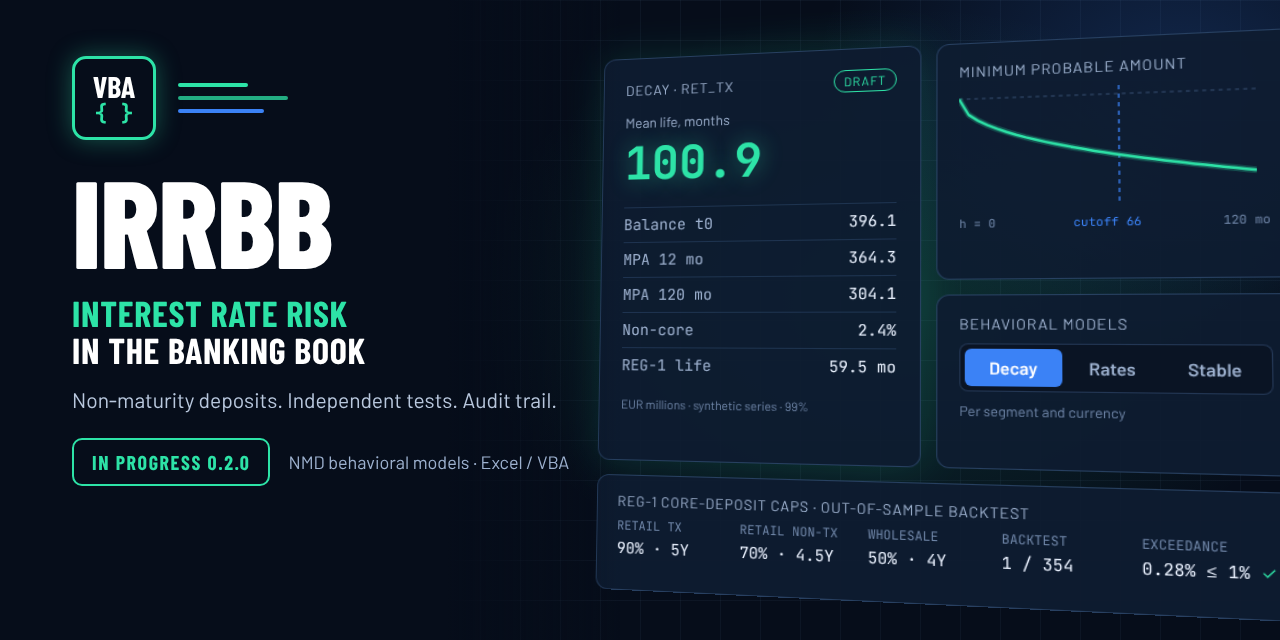
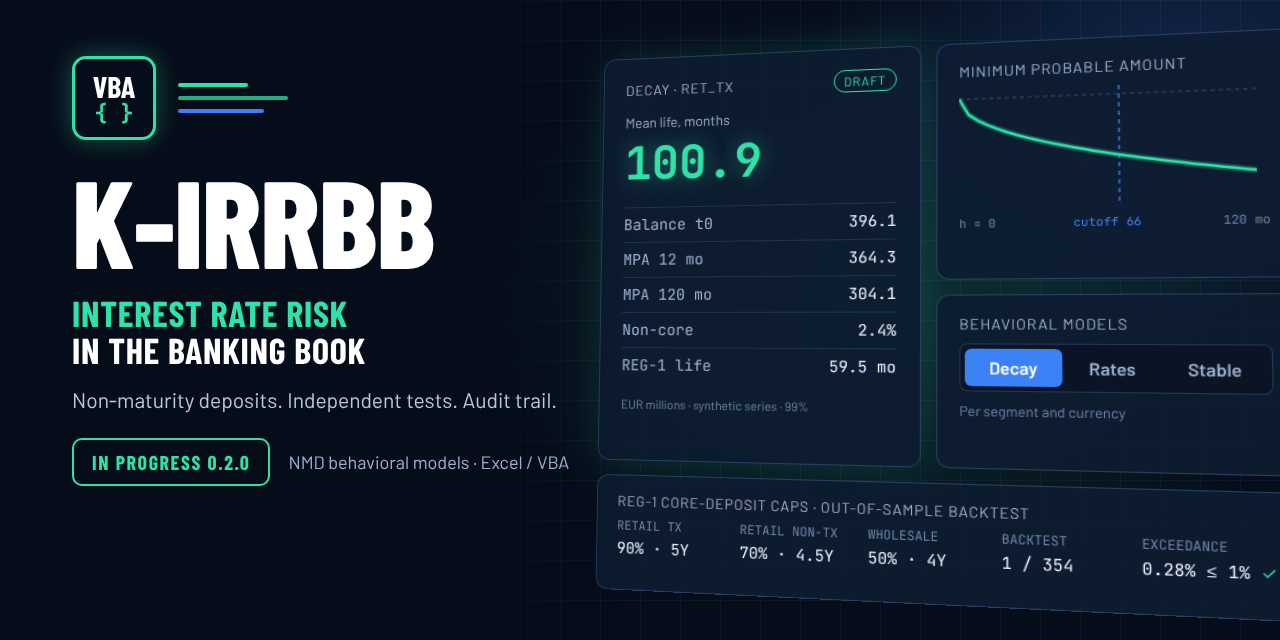
docs: title the social preview K-IRRBB
The owner chose K-IRRBB as the image title, in the naming of the sibling
toolkits K-SACCR and K-FRTB-SA. The HTML title and heading, the README alt
text, docs/assets/README.md (a Name note) and the CHANGELOG entry follow;
the PNG is re-rendered (1280 x 640, 280 KB).

Validated at this commit: python tools/check.py passes every gate; the
re-rendered PNG was inspected.
Not validated: documentation only.

Changed region(s): [[0.0625, 0.2812, 0.3438, 0.4375]]

diff --git a/docs/assets/IRRBB_social_preview.html b/docs/assets/IRRBB_social_preview.html
@@ -2,7 +2,7 @@
 <html lang="en">
 <head>
 <meta charset="utf-8">
-<title>IRRBB social preview</title>
+<title>K-IRRBB social preview</title>
 <link href="https://fonts.googleapis.com/css2?family=Barlow+Condensed:wght@600;700;800&amp;family=Barlow:wght@400;500;600&amp;family=JetBrains+Mono:wght@400;500;700&amp;display=swap" rel="stylesheet">
 <style>body{margin:0}</style>
 </head>
@@ -73,7 +73,7 @@
 <div style="width: 86px; height: 4px; border-radius: 2px; background: #3B82F6"></div>
 </div>
 </div>
-<h1 style="margin: 6px 0 0 0; font-family: 'Barlow Condensed', sans-serif; font-weight: 800; font-size: 124px; line-height: 0.9; letter-spacing: -0.01em; color: #FFFFFF">IRRBB</h1>
+<h1 style="margin: 6px 0 0 0; font-family: 'Barlow Condensed', sans-serif; font-weight: 800; font-size: 124px; line-height: 0.9; letter-spacing: -0.01em; color: #FFFFFF">K-IRRBB</h1>
 <div style="font-family: 'Barlow Condensed', sans-serif; font-weight: 700; font-size: 36px; line-height: 1.05; letter-spacing: 0.02em; color: #2DE3A7">INTEREST RATE RISK<br><span style="color: #FFFFFF">IN THE BANKING BOOK</span></div>
 <div style="font-size: 21px; color: #B9C8DE">Non-maturity deposits. Independent tests. Audit trail.</div>
 <div style="display: flex; align-items: center; gap: 18px; margin-top: 8px">

diff --git a/CHANGELOG.md b/CHANGELOG.md
@@ -272,9 +272,9 @@ Use only the categories needed by a release.
 
 ### Documentation
 
-- Social preview image `docs/assets/IRRBB_social_preview.png`, generated from
-  `IRRBB_social_preview.html` in the layout of VBA-SACCR-Toolkit and
-  MKT-FTRB-SA, and shown at the top of the root README. Its figures are the
+- Social preview image `docs/assets/IRRBB_social_preview.png`, titled
+  K-IRRBB and generated from `IRRBB_social_preview.html` in the layout of
+  K-SACCR and K-FRTB-SA, and shown at the top of the root README. Its figures are the
   decay reference case `DEC-E2E-01` (draft, on `release/v0.3.0`) and the REG-1
   core-deposit caps; `docs/assets/README.md` records each source and how to
   regenerate the image.

diff --git a/README.md b/README.md
@@ -17,7 +17,7 @@
 
 <p align="center">
   <img width="100%"
-       alt="IRRBB: decay reference case DEC-E2E-01 on a synthetic retail transactional series, its minimum probable amount, the REG-1 core-deposit caps and the out-of-sample backtest"
+       alt="K-IRRBB: decay reference case DEC-E2E-01 on a synthetic retail transactional series, its minimum probable amount, the REG-1 core-deposit caps and the out-of-sample backtest"
        src="docs/assets/IRRBB_social_preview.png">
 </p>
 

diff --git a/docs/assets/README.md b/docs/assets/README.md
@@ -37,6 +37,8 @@ laid out like the social previews of VBA-SACCR-Toolkit and MKT-FTRB-SA.
   `bt_rate`).
 - **Models:** the three model families of the root README; only decay exists,
   as a draft.
+- **Name:** the title is K-IRRBB, in the naming of the sibling toolkits
+  K-SACCR and K-FRTB-SA; the subject, IRRBB, is spelled out beneath it.
 - **Status:** the pill names the version in progress, "In progress 0.2.0";
   update it with each release.
 
